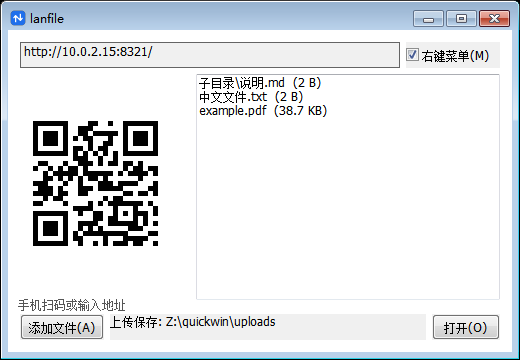
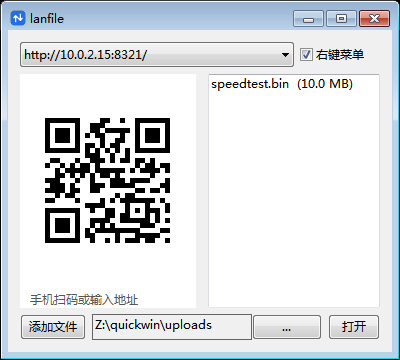
lanfile: 右键菜单文案改为'通过 lanfile 分享'，新增 ctxmenu 截图

Changed region(s): [[0.0, 0.0, 1.0, 1.0]]

diff --git a/demos/lanfile/page.html b/demos/lanfile/page.html
@@ -62,7 +62,7 @@
         文件存到 exe 同级的 <code>uploads\</code>。</li>
     <li><b>发：</b>点「添加文件」挑文件或文件夹，手机页在「从电脑接收」里点开链接下载。</li>
     <li><b>右键共享：</b>资源管理器里右键文件或文件夹 &rarr;
-        <i>发送到 lanfile</i>，等效于上面的「添加文件」。窗口里的
+        <i>通过 lanfile 分享</i>，等效于上面的「添加文件」。窗口里的
         ☑右键菜单 可随时开关这项。</li>
   </ul>
 

diff --git a/demos/lanfile/src/ctxmenu.ts b/demos/lanfile/src/ctxmenu.ts
@@ -21,7 +21,7 @@ import { HKey, RegAccess, RegType } from 'quickwin/constants'
 
 const RegDeleteKeyW = bind('advapi32.dll', 'RegDeleteKeyW', '<>ptr <WCHAR>ptr -> i32')
 
-const MENU_TEXT = '发送到 lanfile'
+const MENU_TEXT = '通过 lanfile 分享'
 const BASES = [
     'Software\\Classes\\*\\shell\\lanfile',
     'Software\\Classes\\Directory\\shell\\lanfile',
